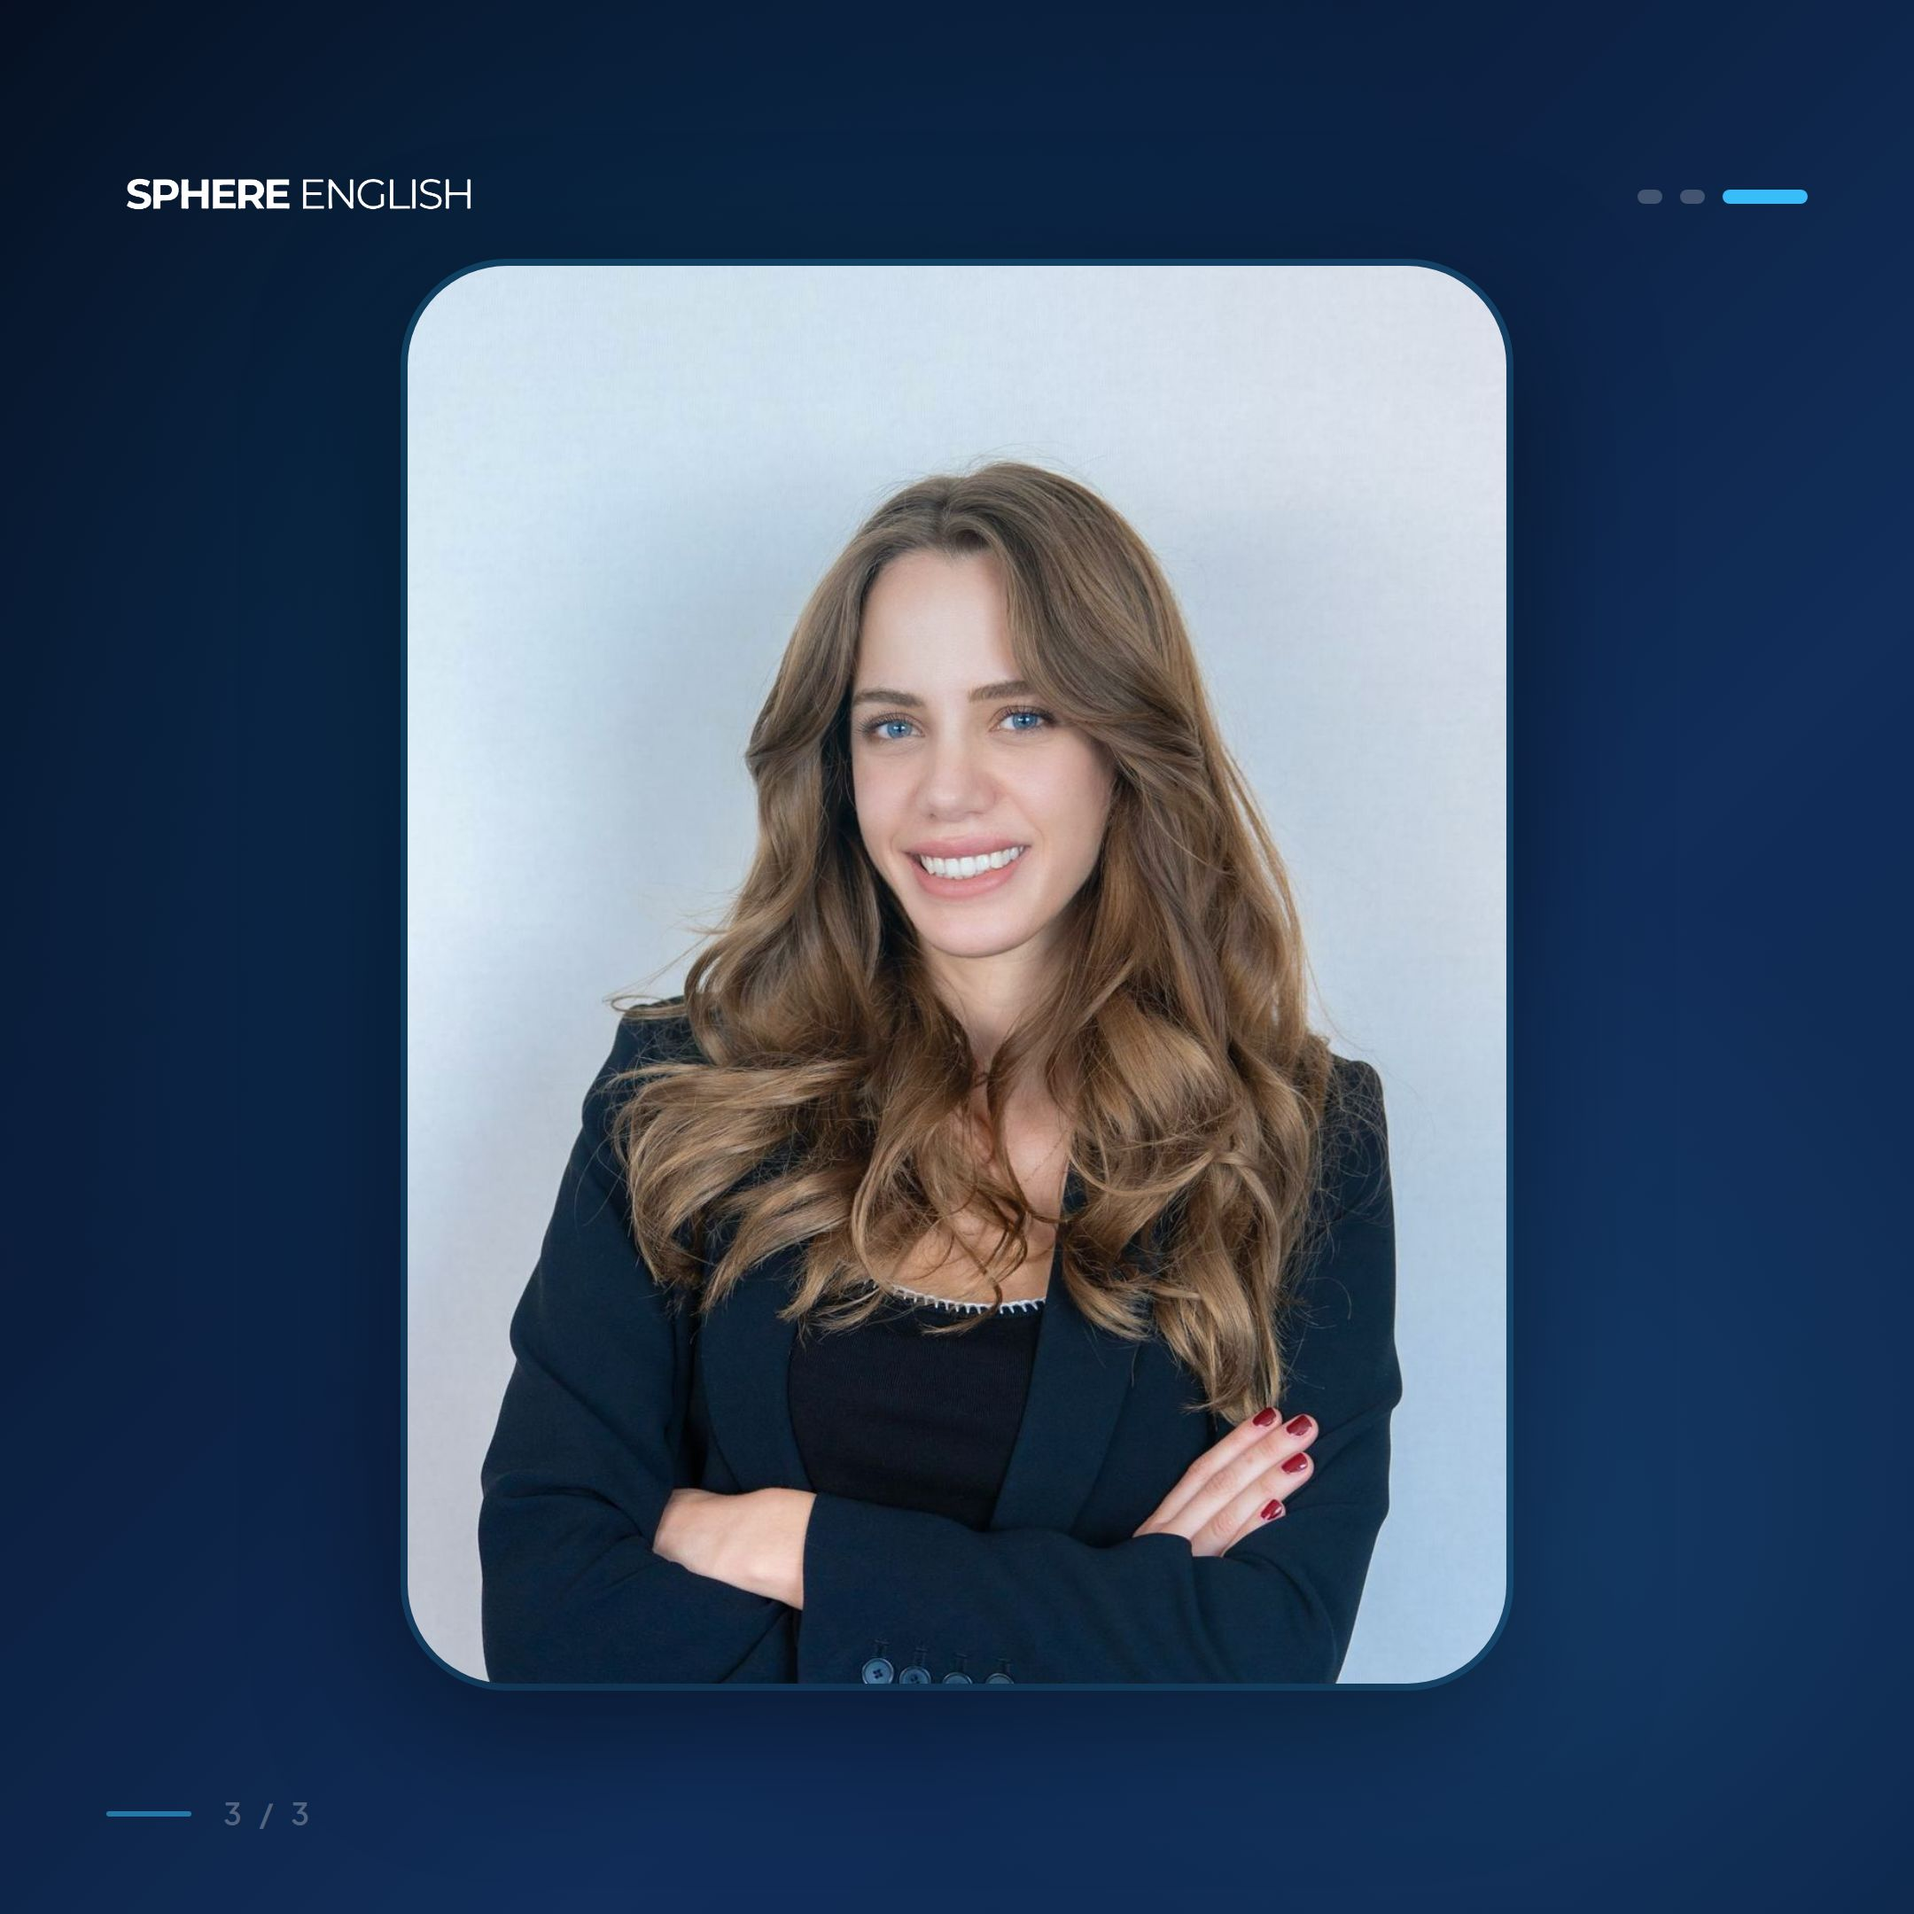
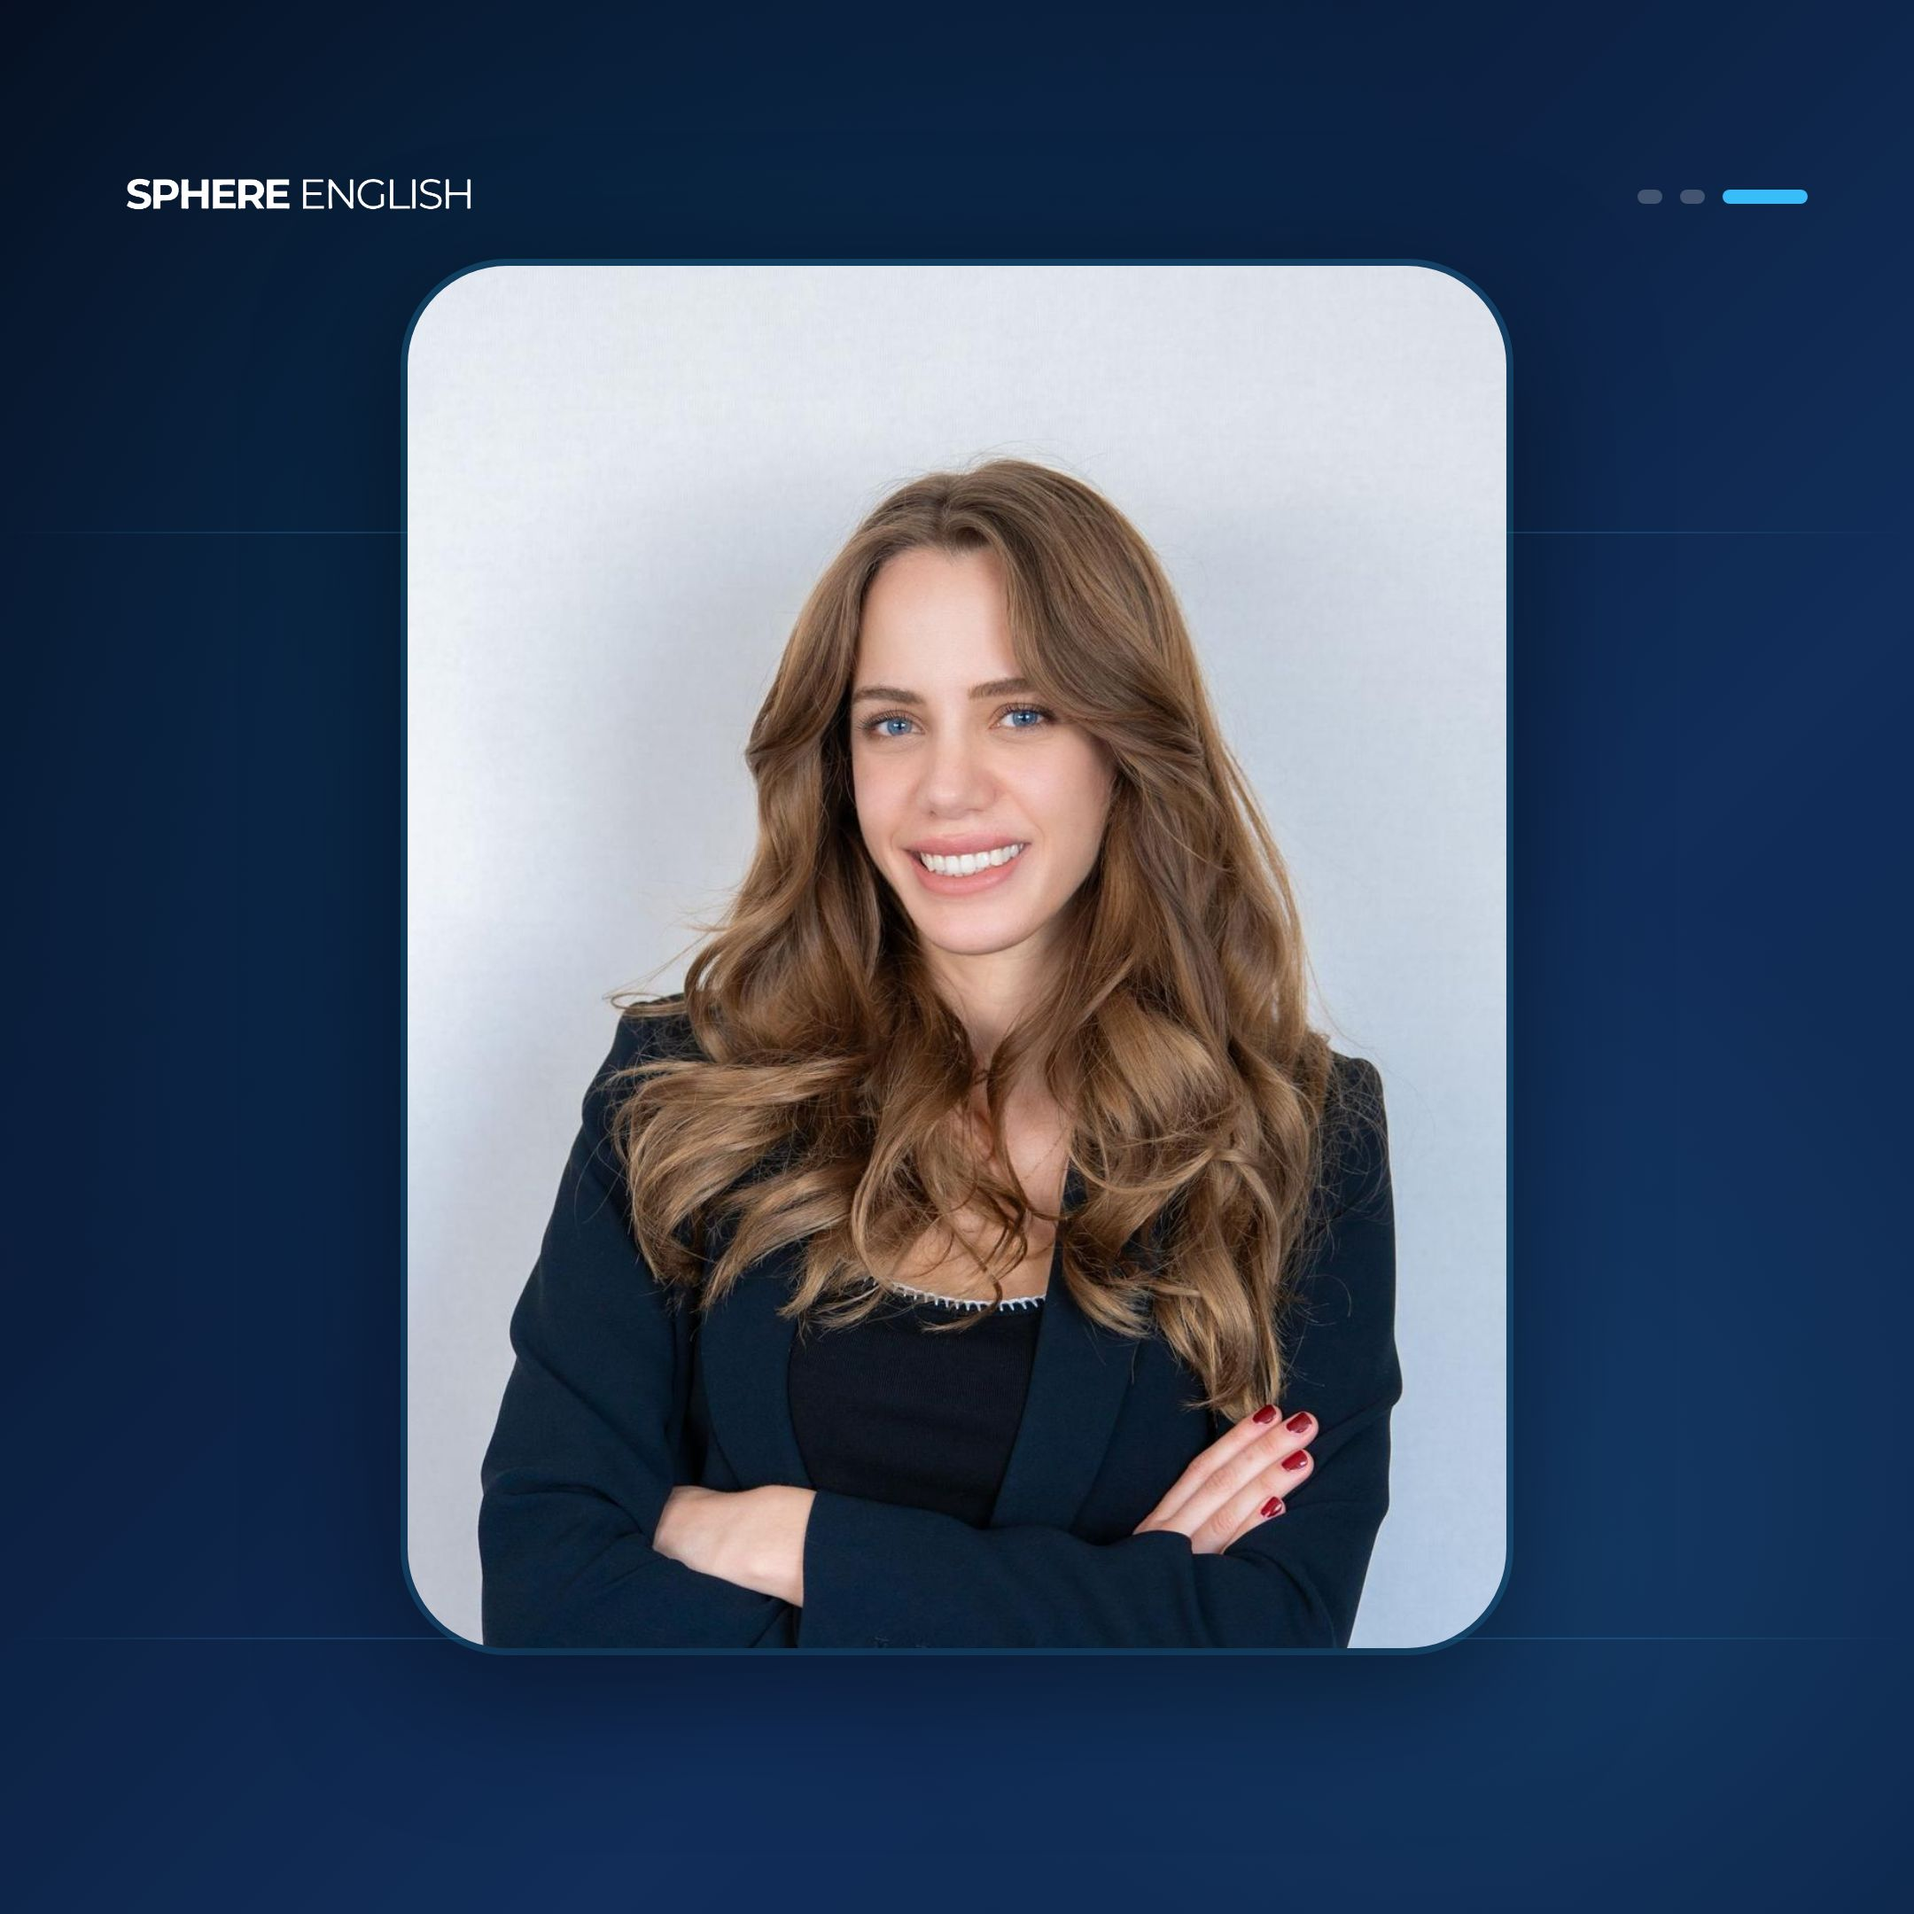
Update post panels to match design with accent lines
Remove "N/3" labels and add horizontal accent lines to all post panels for visual consistency.

Replit-Commit-Author: Agent
Replit-Commit-Session-Id: 7828208e-226c-43ef-9a3e-875997ce7956
Replit-Commit-Checkpoint-Type: full_checkpoint
Replit-Commit-Event-Id: fbbfbb53-c2cd-4973-9eca-53cd540fd923
Replit-Commit-Screenshot-Url: https://storage.googleapis.com/screenshot-production-us-central1/f780e6cf-cd3b-477f-8b05-3e4b163e7069/7828208e-226c-43ef-9a3e-875997ce7956/oGF0WCv
Replit-Helium-Checkpoint-Created: true

diff --git a/artifacts/mockup-sandbox/src/components/mockups/instagram-post/FoundersPost.tsx b/artifacts/mockup-sandbox/src/components/mockups/instagram-post/FoundersPost.tsx
@@ -10,6 +10,14 @@ const MUTED   = "rgba(255,255,255,0.60)";
 
 const BG = "linear-gradient(135deg, #060d1e 0%, #0b1e3c 35%, #112d58 65%, #0d2448 100%)";
 
+/* Ortak yatay çizgi stilleri — Panel 2 ile aynı */
+const TopLine  = () => (
+  <div style={{ position:"absolute", left:0, right:0, top:px(300), height:px(1), background:"linear-gradient(to right, transparent, rgba(56,189,248,0.18) 15%, rgba(56,189,248,0.45) 50%, rgba(56,189,248,0.18) 85%, transparent)", pointerEvents:"none" }} />
+);
+const BotLine  = () => (
+  <div style={{ position:"absolute", left:0, right:0, bottom:px(155), height:px(1), background:"linear-gradient(to right, transparent, rgba(56,189,248,0.18) 15%, rgba(56,189,248,0.45) 50%, rgba(56,189,248,0.18) 85%, transparent)", pointerEvents:"none" }} />
+);
+
 /* ── Panel dot indicator ── */
 const PanelDots = ({ current }: { current: number }) => (
   <div style={{ display:"flex", gap:px(10), alignItems:"center" }}>
@@ -21,16 +29,6 @@ const PanelDots = ({ current }: { current: number }) => (
         background: i === current ? ACCENT : "rgba(255,255,255,0.22)",
       }} />
     ))}
-  </div>
-);
-
-/* ── Bottom "N / 3" label ── */
-const BottomLine = ({ n, center }: { n: number; center?: boolean }) => (
-  <div style={{ display:"flex", alignItems:"center", gap:px(18), justifyContent: center ? "center" : "flex-start" }}>
-    <div style={{ width:px(48), height:px(3), background:`rgba(56,189,248,0.55)`, borderRadius:px(2) }} />
-    <span style={{ fontSize:px(17), color:"rgba(255,255,255,0.30)", letterSpacing:"0.2em", textTransform:"uppercase", fontFamily:'"Plus Jakarta Sans", sans-serif', fontWeight:600 }}>
-      {n} / 3
-    </span>
   </div>
 );
 
@@ -49,10 +47,8 @@ const Avatar = ({ letter, color }: { letter: string; color: string }) => (
 const PhotoPanel = ({ src, alt, dots }: { src: string; alt: string; dots: number }) => {
   const PADX = px(60);
   const PADY = px(56);
-
-  /* Portrait card boyutu: dikey, oval köşeli */
   const CARD_W = px(620);
-  const CARD_H = px(800);
+  const CARD_H = px(780);
 
   return (
     <div style={{
@@ -69,6 +65,22 @@ const PhotoPanel = ({ src, alt, dots }: { src: string; alt: string; dots: number
       <div style={{ position:"absolute", width:px(1400), height:px(1400), borderRadius:"50%", background:"radial-gradient(circle, rgba(14,165,233,0.12) 0%, transparent 55%)", left:px(-350), top:px(-400), pointerEvents:"none" }} />
       <div style={{ position:"absolute", width:px(900), height:px(900), borderRadius:"50%", background:"radial-gradient(circle, rgba(56,189,248,0.10) 0%, transparent 60%)", right:px(-250), bottom:px(-250), pointerEvents:"none" }} />
 
+      {/* Panel 2 ile aynı yatay çizgiler */}
+      <TopLine />
+      <BotLine />
+
+      {/* Logo + dots — üstte */}
+      <div style={{
+        position:"absolute", top:PADY, left:PADX, right:PADX,
+        display:"flex", justifyContent:"space-between", alignItems:"center",
+        zIndex: 2,
+      }}>
+        <img src="/images/logo-full.png" alt="Sphere English"
+          style={{ height:px(110), width:"auto", filter:"brightness(0) invert(1)", objectFit:"contain", objectPosition:"left" }}
+        />
+        <PanelDots current={dots} />
+      </div>
+
       {/* Dikey portre çerçevesi — ortada */}
       <div style={{
         width: CARD_W,
@@ -77,7 +89,7 @@ const PhotoPanel = ({ src, alt, dots }: { src: string; alt: string; dots: number
         overflow: "hidden",
         boxShadow: `0 ${px(20)}px ${px(80)}px rgba(0,0,0,0.50), 0 0 0 ${px(4)}px rgba(56,189,248,0.25)`,
         flexShrink: 0,
-        marginTop: px(20),
+        zIndex: 1,
       }}>
         <img
           src={src}
@@ -90,22 +102,6 @@ const PhotoPanel = ({ src, alt, dots }: { src: string; alt: string; dots: number
             display: "block",
           }}
         />
-      </div>
-
-      {/* Logo + dots — üst üste */}
-      <div style={{
-        position:"absolute", top:PADY, left:PADX, right:PADX,
-        display:"flex", justifyContent:"space-between", alignItems:"center",
-      }}>
-        <img src="/images/logo-full.png" alt="Sphere English"
-          style={{ height:px(110), width:"auto", filter:"brightness(0) invert(1)", objectFit:"contain", objectPosition:"left" }}
-        />
-        <PanelDots current={dots} />
-      </div>
-
-      {/* Slide numarası — alt üste */}
-      <div style={{ position:"absolute", bottom:px(44), left:PADX }}>
-        <BottomLine n={dots} />
       </div>
     </div>
   );
@@ -149,8 +145,10 @@ export default function FoundersPost() {
           {/* Dekoratif orbs */}
           <div style={{ position:"absolute", width:px(1400), height:px(1400), borderRadius:"50%", background:"radial-gradient(circle, rgba(14,165,233,0.14) 0%, transparent 58%)", left:px(-200), top:px(-300), pointerEvents:"none" }} />
           <div style={{ position:"absolute", width:px(800), height:px(800), borderRadius:"50%", background:"radial-gradient(circle, rgba(59,130,246,0.12) 0%, transparent 60%)", right:px(-200), bottom:px(-200), pointerEvents:"none" }} />
-          {/* Yatay accent çizgi */}
-          <div style={{ position:"absolute", left:0, right:0, top:px(300), height:px(1), background:"linear-gradient(to right, transparent, rgba(56,189,248,0.18) 15%, rgba(56,189,248,0.45) 50%, rgba(56,189,248,0.18) 85%, transparent)", pointerEvents:"none" }} />
+
+          {/* Aynı yatay çizgiler */}
+          <TopLine />
+          <BotLine />
 
           {/* TOP: Logo + dots */}
           <div style={{ display:"flex", justifyContent:"space-between", alignItems:"center" }}>
@@ -185,8 +183,7 @@ export default function FoundersPost() {
 
           {/* BOTTOM: Avatar çifti + isimler — ortalı */}
           <div style={{ display:"flex", flexDirection:"column", alignItems:"center" }}>
-            <div style={{ width:"100%", height:px(1), background:"rgba(255,255,255,0.08)", marginBottom:px(28) }} />
-            <div style={{ display:"flex", alignItems:"center", gap:px(20), marginBottom:px(32) }}>
+            <div style={{ display:"flex", alignItems:"center", gap:px(20) }}>
               <div style={{ display:"flex" }}>
                 <Avatar letter="D" color={ACCENT2} />
                 <Avatar letter="M" color={PRIMARY} />
@@ -200,7 +197,6 @@ export default function FoundersPost() {
                 </div>
               </div>
             </div>
-            <BottomLine n={2} />
           </div>
         </div>
 
